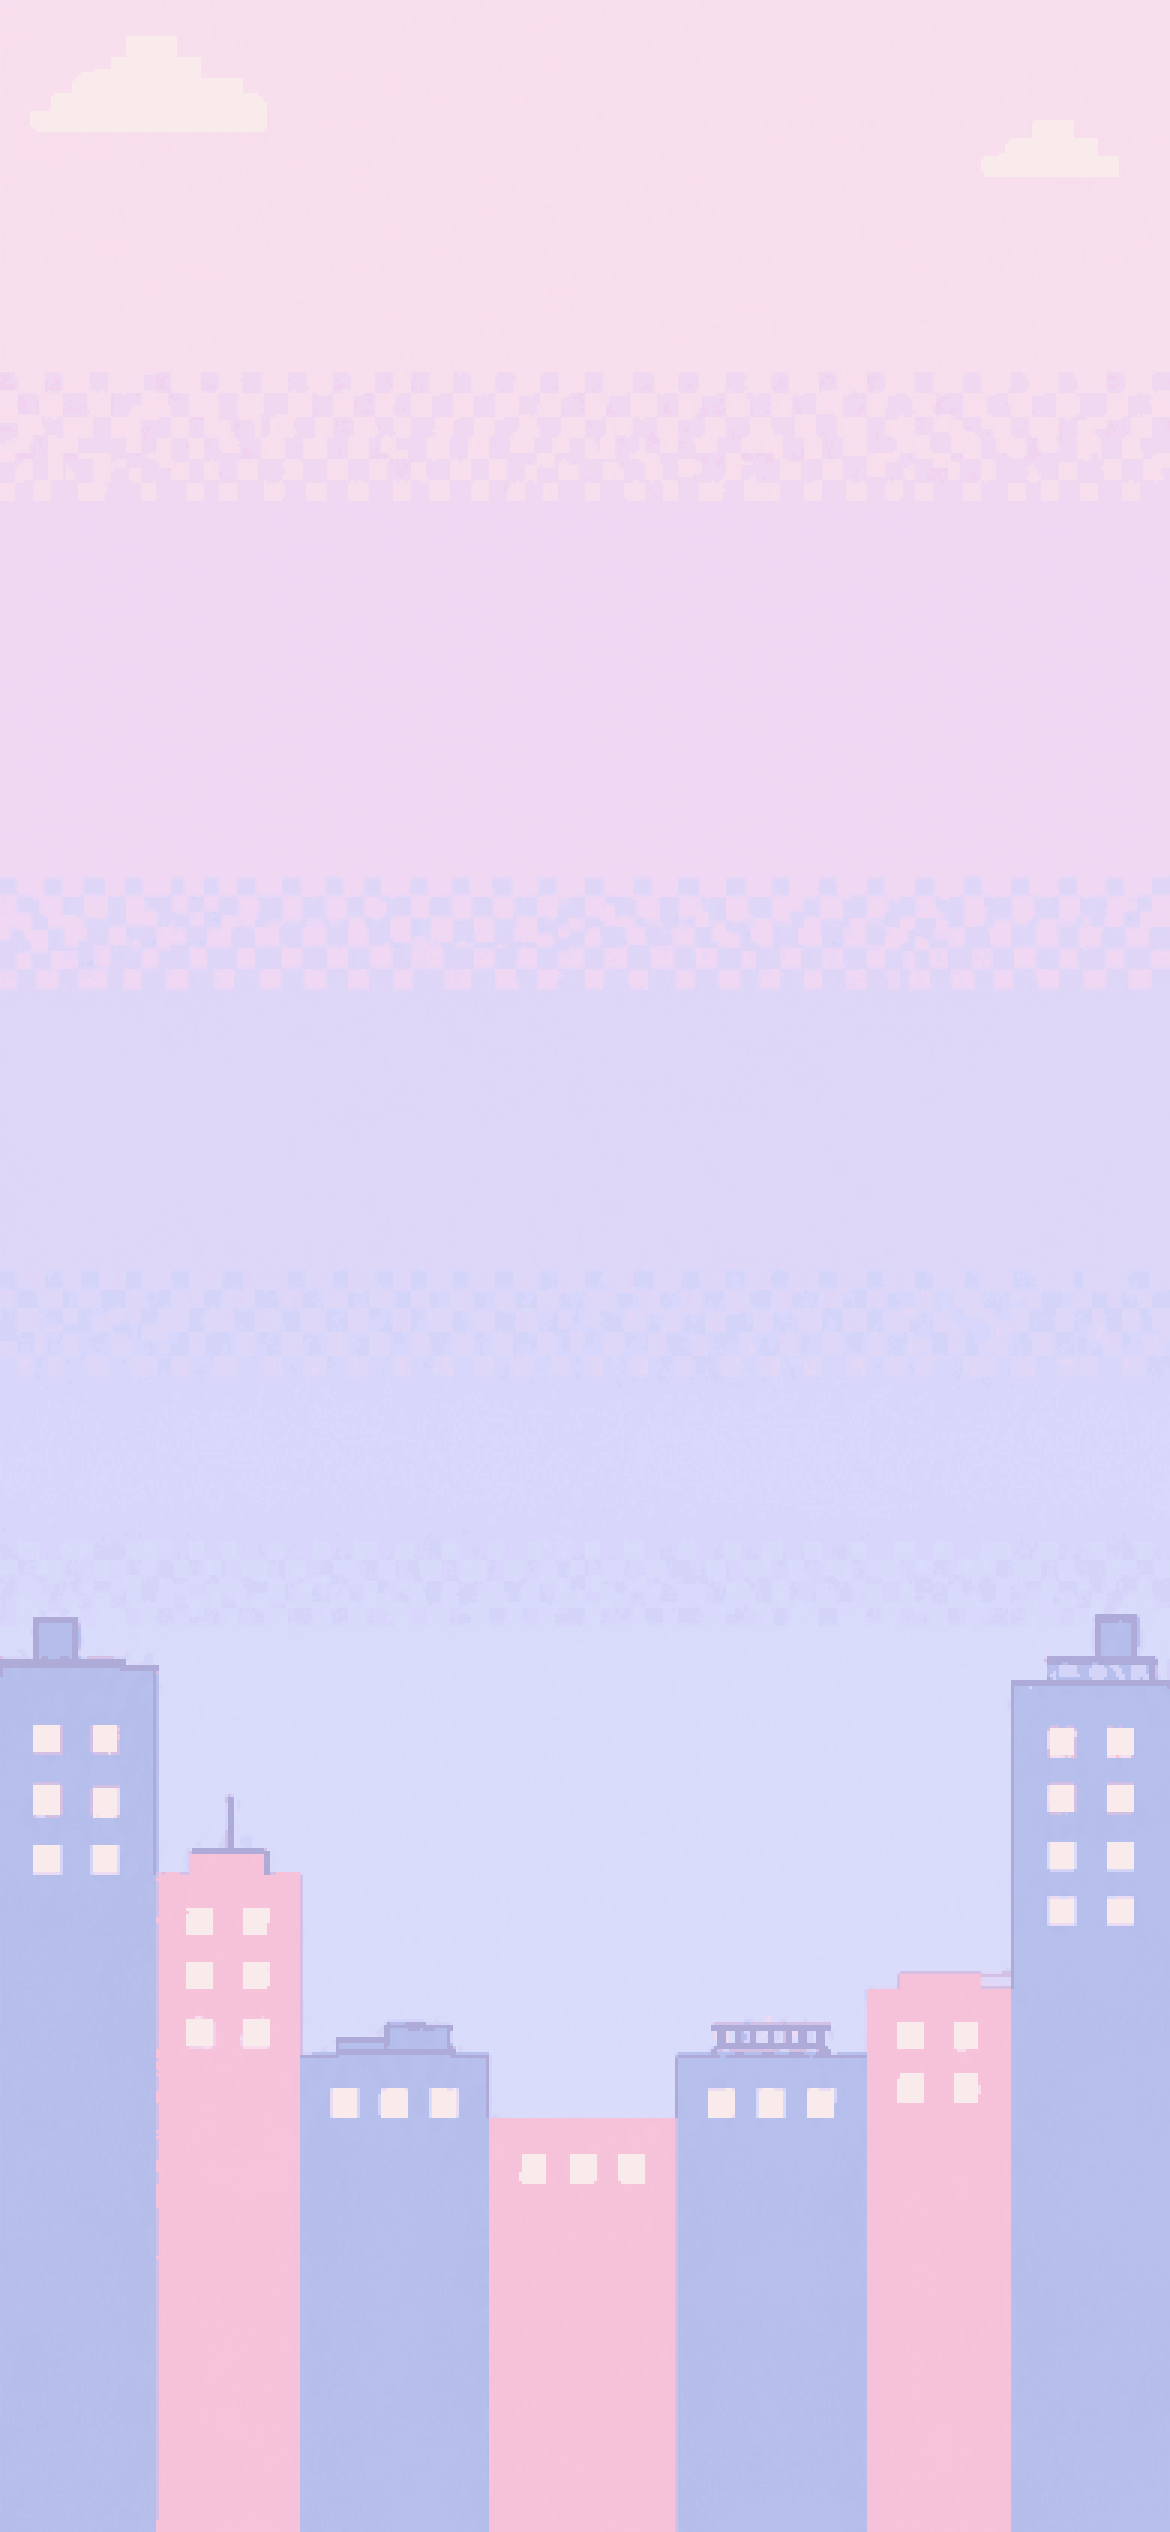
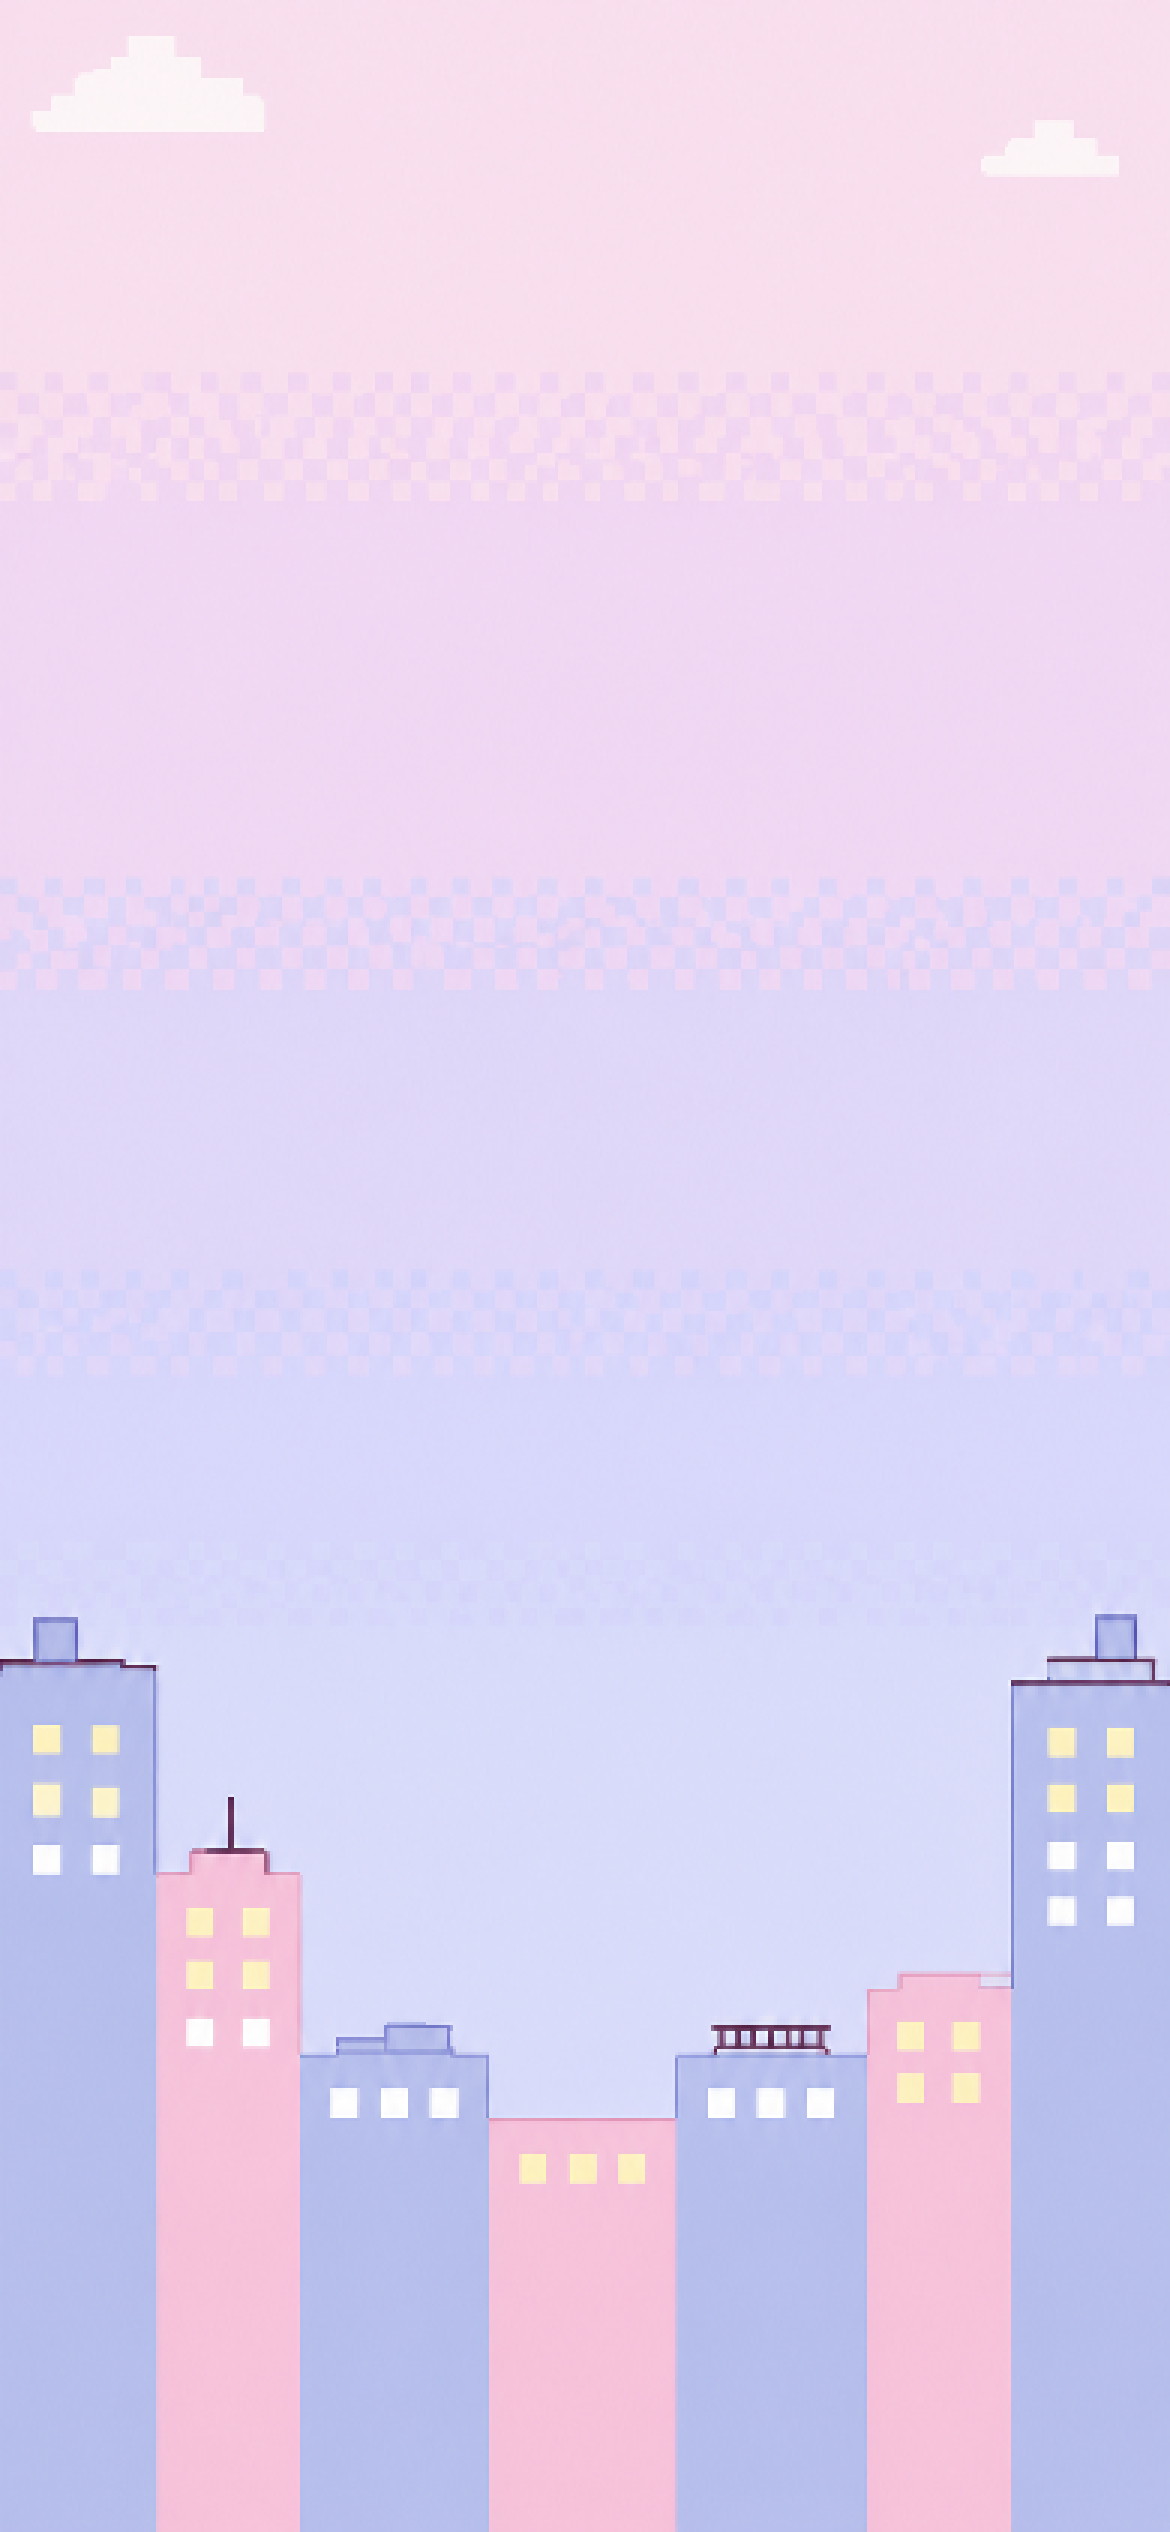
Round 5 batch 1: neon day + maximal night portrait relights; nearest-sample pixel backdrops so lit windows survive

diff --git a/recipes5.py b/recipes5.py
@@ -55,7 +55,8 @@ def avatar_sheet(k, bgs, fill, grid=None):
 
 def pixel_backdrop(k, w, h, px=3, colours=32):
     img = opaque(raw(k), w, h)
-    art = pixelize(img, w // px, h // px, colours)
+    # the raw is already flat pixel art: nearest-sample the cell centres (a palette quantize drops the few lit windows)
+    art = img.resize((w // px, h // px), NN)
     return up(art, px).crop((0, 0, w, h)).convert("RGB")
 
 
